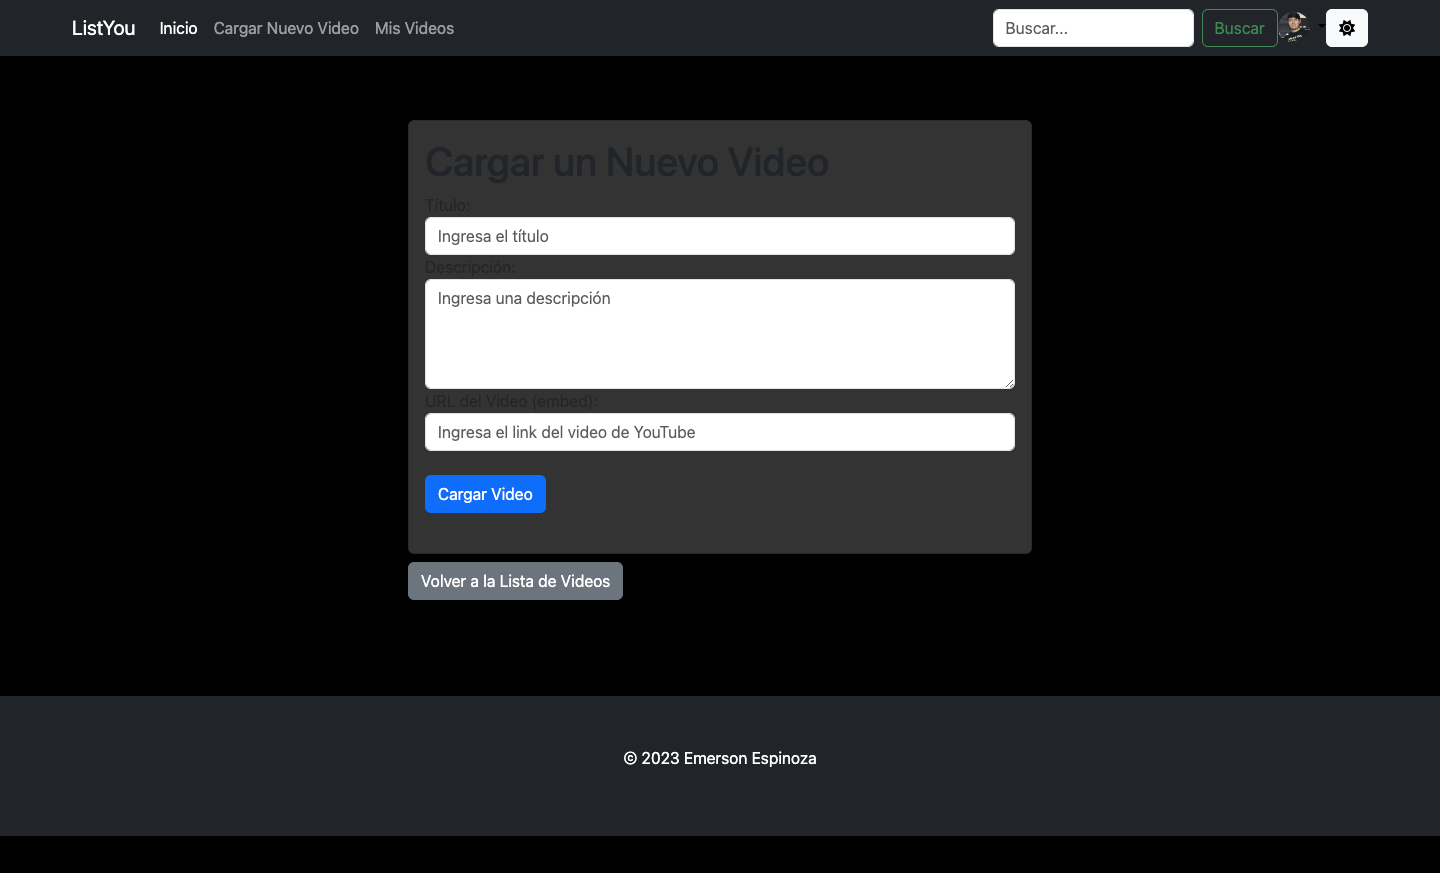
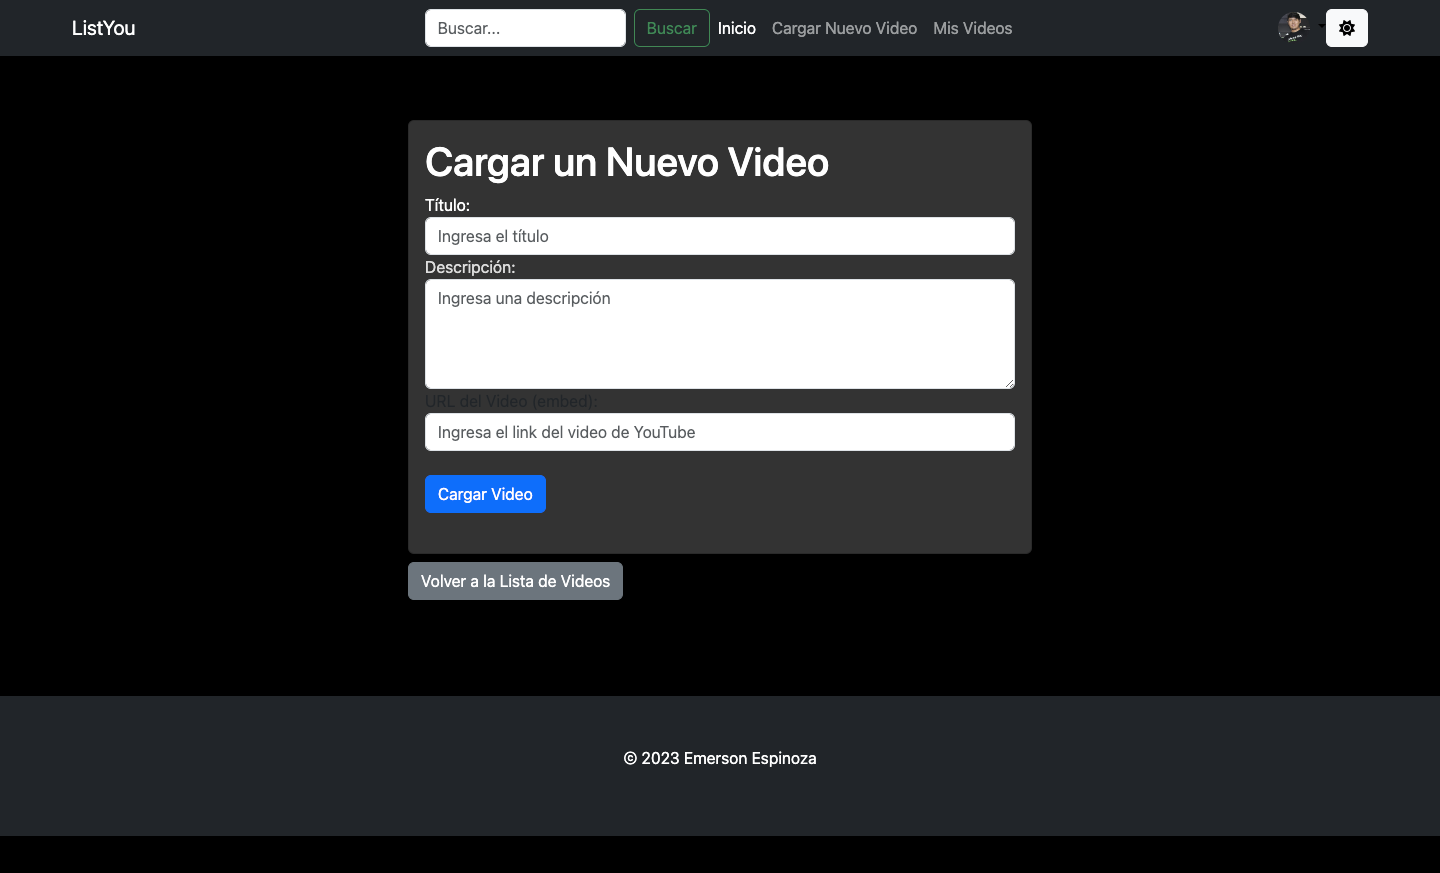
fix frontend

diff --git a/templates/shared/nav.html b/templates/shared/nav.html
@@ -12,26 +12,15 @@
     >
       <span class="navbar-toggler-icon"></span>
     </button>
-    <div class="navbar-collapse collapse" id="navbarCollapse" style="">
-      <ul class="navbar-nav me-auto mb-2 mb-md-0">
+    <div class="navbar-collapse collapse " id="navbarCollapse" style="">
+      <ul class="navbar-nav me-auto mb-2 mb-md-0 ml-auto">
         <li class="nav-item">
           <a
             class="nav-link active"
             aria-current="page"
             href="{{ url_for('index') }}"
-            >Inicio</a
-          >
+          ></a>
         </li>
-        {% if current_user.is_authenticated %}
-        <li class="nav-item">
-          <a class="nav-link" href="{{ url_for('upload_video') }}"
-            >Cargar Nuevo Video</a
-          >
-        </li>
-        <li class="nav-item">
-          <a class="nav-link" href="{{ url_for('mis_videos') }}">Mis Videos</a>
-        </li>
-        {% endif %}
       </ul>
       <form
         class="d-flex"
@@ -48,6 +37,29 @@
         />
         <button class="btn btn-outline-success" type="submit">Buscar</button>
       </form>
+      <ul class="navbar-nav me-auto mb-2 mb-md-0 ml-auto">
+        <li class="nav-item">
+          <a
+            class="nav-link active"
+            aria-current="page"
+            href="{{ url_for('index') }}"
+            >Inicio</a
+          >
+        </li>
+        {% if current_user.is_authenticated %}
+        <li class="nav-item active">
+          <a class="nav-link btn btn-info" href="{{ url_for('upload_video') }}"
+            >Cargar Nuevo Video</a
+          >
+        </li>
+        <li class="nav-item active">
+          <a class="nav-link btn btn-primary" href="{{ url_for('mis_videos') }}"
+            >Mis Videos</a
+          >
+        </li>
+        {% endif %}
+      </ul>
+
       {% if current_user.is_authenticated %}
       <div class="dropdown  text-end">
         <a

diff --git a/templates/registro.html b/templates/registro.html
@@ -4,7 +4,7 @@
     <div class="col-md-6">
       <div class="card mt-5">
         <div class="card-body">
-          <h1 class="card-title text-center mb-4">Registro de Usuario</h1>
+          <h1 class="card-title text-center mb-4 title">Registro de Usuario</h1>
 
           {% with messages = get_flashed_messages(with_categories=true) %} {% if
           messages %} {% for category, message in messages %}
@@ -22,7 +22,7 @@
             novalidate
           >
             <div class="mb-3">
-              <label for="username" class="form-label"
+              <label for="username" class="form-label title"
                 >Nombre de usuario:</label
               >
               <input
@@ -32,10 +32,14 @@
                 id="username"
                 required
               />
-              <div class="invalid-feedback">Este campo es obligatorio.</div>
+              <div class="invalid-feedback description">
+                Este campo es obligatorio.
+              </div>
             </div>
             <div class="mb-3">
-              <label for="password" class="form-label">Contraseña:</label>
+              <label for="password" class="form-label description"
+                >Contraseña:</label
+              >
               <input
                 type="password"
                 class="form-control"
@@ -43,9 +47,13 @@
                 id="password"
                 required
               />
-              <div class="invalid-feedback">Este campo es obligatorio.</div>
+              <div class="invalid-feedback description">
+                Este campo es obligatorio.
+              </div>
             </div>
-            <button type="submit" class="btn btn-primary">Registrar</button>
+            <button type="submit" class="btn btn-primary description">
+              Registrar
+            </button>
           </form>
         </div>
       </div>

diff --git a/templates/mis_videos.html b/templates/mis_videos.html
@@ -1,7 +1,7 @@
 {% extends "base.html" %} {% block principal %}
 
 <div class="container">
-  <h1>Mis Videos</h1>
+  <h1 class="title">Mis Videos</h1>
 
   {% if current_user.is_authenticated %}
   <div class="row">
@@ -9,8 +9,6 @@
     <div class="col-md-4 mb-4">
       <div class="card">
         <div class="card-body">
-          <h5 class="card-title">{{ video.title }}</h5>
-          <p class="card-text">{{ video.description }}</p>
           <div class="embed-responsive embed-responsive-16by9">
             <iframe
               class="embed-responsive-item"
@@ -21,6 +19,20 @@
               allowfullscreen
             ></iframe>
           </div>
+          <h5 class="card-title title">
+            {{ video.title[:39] }}<strong class="text-info">
+              <a href="/video/{{ video.id }}" class="text-decoration-none"
+                >ver más</a
+              >
+            </strong>
+          </h5>
+          <p class="card-text title">
+            {{ video.description[:50] }}<strong class="text-info">
+              <a href="/video/{{ video.id }}" class="text-decoration-none"
+                >ver más</a
+              >
+            </strong>
+          </p>
           <a
             href="{{ url_for('edit_video', id=video.id) }}"
             class="btn btn-primary mt-3"
@@ -30,6 +42,10 @@
             href="{{ url_for('delete_video', id=video.id) }}"
             class="btn btn-danger mt-3 ml-2"
             >Eliminar</a
+          >
+
+          <a href="/video/{{ video.id }}" class="btn btn-info mt-3 ml-2"
+            >Detalle</a
           >
         </div>
       </div>

diff --git a/templates/show.html b/templates/show.html
@@ -3,9 +3,9 @@
 <div class="container">
   <div class="row">
     <div class="col-md-8 offset-md-2">
-      <div class="card">
+      <div class="card title">
         <div class="card-body">
-          <h1 class="card-title">Detalle del Video</h1>
+          <h1 class="card-title title">Detalle del Video</h1>
 
           <div class="embed-responsive embed-responsive-16by9">
             <iframe
@@ -17,8 +17,8 @@
               height="305"
             ></iframe>
           </div>
-          <h2>{{ video.title }}</h2>
-          <p class="card-text">{{ video.description }}</p>
+          <h2 class="title">{{ video.title }}</h2>
+          <p class="card-text description">{{ video.description }}</p>
 
           {% if current_user.is_authenticated %} {% if current_user.id ==
           video.user_id %}
@@ -29,10 +29,14 @@
           >
           {% else %}
           <!-- Mostrar un mensaje si el usuario no tiene permiso para editar/eliminar -->
-          <p>No tienes permiso para editar o eliminar este video.</p>
+          <p class="description">
+            No tienes permiso para editar o eliminar este video.
+          </p>
           {% endif %} {% else %}
           <!-- Mostrar un mensaje de inicio de sesión si el usuario no ha iniciado sesión -->
-          <p>Inicia sesión para editar o eliminar este video.</p>
+          <p class="description">
+            Inicia sesión para editar o eliminar este video.
+          </p>
           {% endif %}
         </div>
       </div>

diff --git a/templates/index.html b/templates/index.html
@@ -45,9 +45,27 @@
             allowfullscreen
           ></iframe>
         </div>
-        <h2 class="card-header title">{{ video.title }}</h2>
+        <h2 class="card-header title">
+          {{ video.title[:38] }}
+          <strong class="text-info">
+            <a href="/video/{{ video.id }}" class="text-decoration-none h6"
+              >ver más</a
+            >
+          </strong>
+        </h2>
         <div class="card-body">
-          <p class="card-text description">{{ video.description }}</p>
+          <p class="card-text h6 description">
+            {{ video.description[:50] }}
+            <strong class="text-info">
+              <a href="/video/{{ video.id }}" class="text-decoration-none"
+                >ver más</a
+              >
+            </strong>
+          </p>
+          <br />
+          <p class="title">
+            Publicado por: <strong class=""> {{ video.user.username }} </strong>
+          </p>
         </div>
         <div class="card-footer">
           <a

diff --git a/templates/search.html b/templates/search.html
@@ -1,6 +1,6 @@
 {% extends "base.html" %} {% block principal %}
 <div class="container">
-  <h1 class="mt-5">Resultados de la Búsqueda para "{{ query }}"</h1>
+  <h1 class="mt-5 title">Resultados de la Búsqueda para "{{ query }}"</h1>
 
   {% if videos %}
   <div class="row mt-4">
@@ -9,7 +9,9 @@
       <div class="card mb-4">
         <div class="card-body">
           <h5 class="card-title">
-            <a href="{{ url_for('show_video_detail', id=video.id) }}"
+            <a
+              class="title"
+              href="{{ url_for('show_video_detail', id=video.id) }}"
               >{{ video.title }}</a
             >
           </h5>
@@ -23,7 +25,7 @@
               height="305"
             ></iframe>
           </div>
-          <p class="card-text">{{ video.description }}</p>
+          <p class="card-text description">{{ video.description }}</p>
           <!-- Puedes mostrar más detalles del video aquí o enlazar a la página de detalles -->
         </div>
       </div>

diff --git a/templates/login.html b/templates/login.html
@@ -2,7 +2,7 @@
 <div class="container">
   <div class="row justify-content-center">
     <div class="col-12 col-md-6">
-      <h1 class="mt-5">Iniciar Sesión</h1>
+      <h1 class="mt-5 title">Iniciar Sesión</h1>
       <form method="POST" class="mt-4">
         <div class="form-group">
           <label for="username">Nombre de Usuario:</label>
@@ -10,11 +10,11 @@
             name="username" required />
         </div>
         <div class="form-group">
-          <label for="password">Contraseña:</label>
+          <label for="password description">Contraseña:</label>
           <input placeholder="ingrese su contraseña" type="password" class="form-control" id="password" name="password"
             required />
         </div>
-        <button type="submit" class="btn btn-primary">Iniciar Sesión</button>
+        <button type="submit" class="btn btn-primary description my-4">Iniciar Sesión</button>
       </form>
     </div>
   </div>

diff --git a/templates/upload.html b/templates/upload.html
@@ -4,10 +4,10 @@
     <div class="col-md-6 offset-md-3">
       <div class="card">
         <div class="card-body">
-          <h1 class="card-title">Cargar un Nuevo Video</h1>
+          <h1 class="card-title title">Cargar un Nuevo Video</h1>
           <form action="{{ url_for('upload_video') }}" method="POST">
             <div class="form-group">
-              <label for="title">Título:</label>
+              <label class="title" for="title">Título:</label>
               <input
                 type="text"
                 id="title"
@@ -19,7 +19,7 @@
             </div>
 
             <div class="form-group">
-              <label for="description">Descripción:</label>
+              <label class="description" for="description">Descripción:</label>
               <textarea
                 id="description"
                 name="description"

diff --git a/templates/update.html b/templates/update.html
@@ -4,10 +4,10 @@
     <div class="col-md-6 offset-md-3">
       <div class="card">
         <div class="card-body">
-          <h1 class="card-title">Editar Video</h1>
+          <h1 class="card-title title">Editar Video</h1>
           <form method="POST" action="/edit/{{ video.id }}">
             <div class="form-group">
-              <label for="title">Título:</label>
+              <label for="title" class="description">Título:</label>
               <input
                 type="text"
                 id="title"
@@ -19,7 +19,7 @@
             </div>
 
             <div class="form-group">
-              <label for="description">Descripción:</label>
+              <label class="description" for="description">Descripción:</label>
               <textarea
                 id="description"
                 name="description"

diff --git a/static/css/style.css b/static/css/style.css
@@ -37,7 +37,7 @@ body {
 /* Modo de día */
 .day-mode .title {
   color: #000; /* Color del texto en modo de día */
-  background-color: #fff; /* Color de fondo en modo de día */
+  /* background-color: #fff; Color de fondo en modo de día */
 }
 
 .day-mode .description {
@@ -47,11 +47,17 @@ body {
 .day-mode .card {
   background-color: #f0f0f0; /* Color de fondo de la tarjeta en modo de día */
 }
+.day-mode .creador{
+  color: #1b233d
+}
+.night-mode .creador{
+  color: #1b233d;
+}
 
 /* Modo de noche */
 .night-mode .title {
   color: #fff; /* Color del texto en modo de noche */
-  background-color: #000; /* Color de fondo en modo de noche */
+  /* background-color: #000; Color de fondo en modo de noche */
 }
 
 .night-mode .description {

diff --git a/templates/profile.html b/templates/profile.html
@@ -9,10 +9,10 @@
       />
     </div>
     <div class="col-md-8">
-      <h1>{{ user.username }}</h1>
-      <h3>{{ user.name }}</h3>
-      <p>{{ user.description }}</p>
-      <a href="{{ url_for('edit_profile') }}" class="btn btn-primary"
+      <h1 class="title">{{ user.username }}</h1>
+      <h3 class="title">{{ user.name }}</h3>
+      <p class="title">{{ user.description }}</p>
+      <a href="{{ url_for('edit_profile') }}" class="btn btn-primary title"
         >Editar Perfil</a
       >
     </div>

diff --git a/README.md b/README.md
@@ -12,12 +12,23 @@ version 1.0
 
 version 2.0 
 <img src="./static/img/version2_miniyoutube.png">
-<img src="./static/img/antes_sesion.png">
 <img src="./static/img/iniciar_sesion.png">
 <img src="./static/img/cargar_video.png">
 <img src="./static/img/mis_videos.png">
 <img src="./static/img/buscador.png">
 
-
+## Para correr en docker 
+### para crear la imagen
+```bash
+docker build -t mini_youtube .
+```
+### para correr el proyecto 
+```bash
+docker run -p 8080:80 mini_youtube
+```
+### para abrir su modo terminal de docker desde nuestra terminal
+```bash
+docker run -it --rm mini_youtube /bin/bash
+```
 
 
